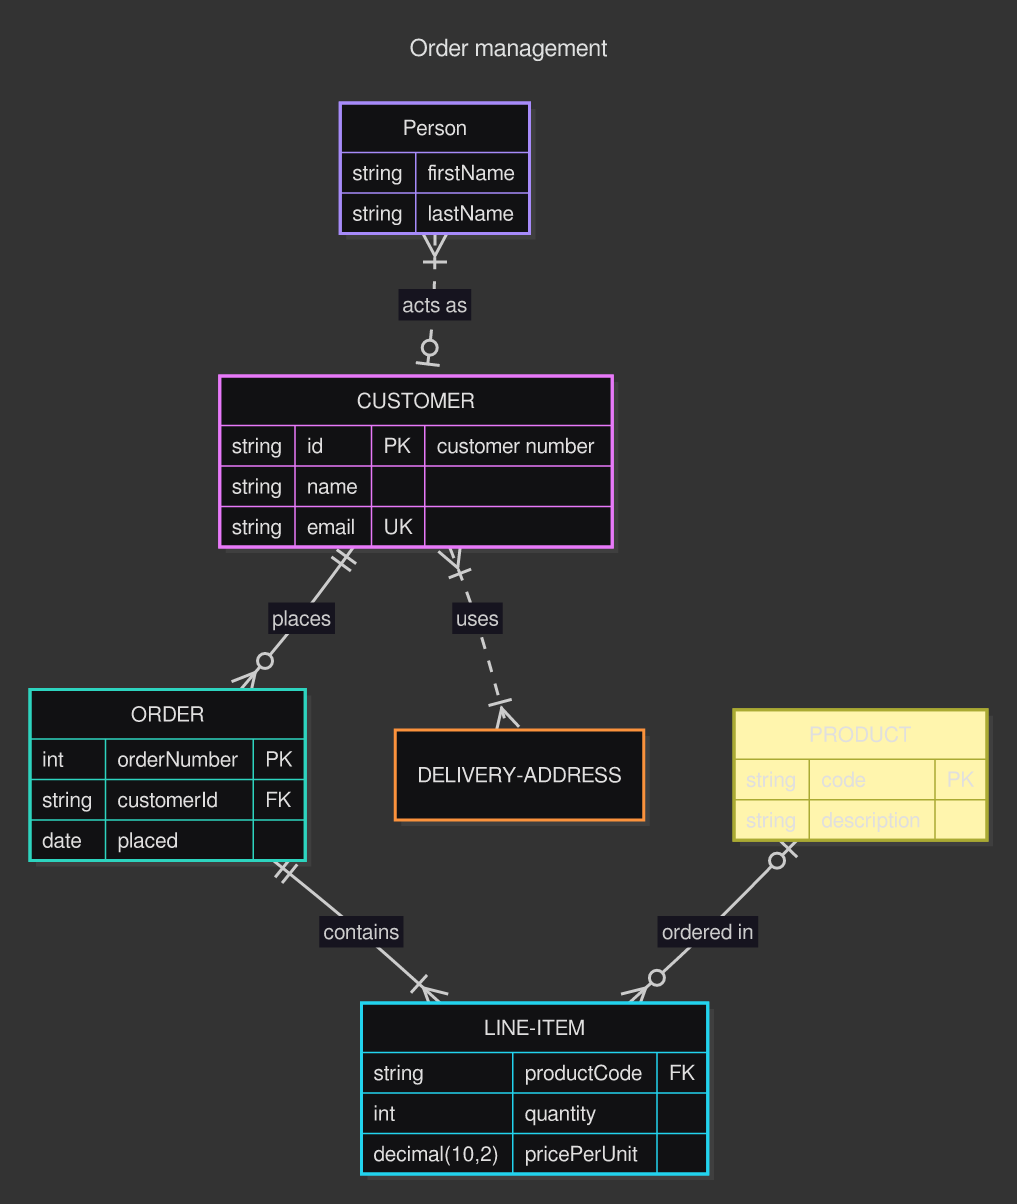
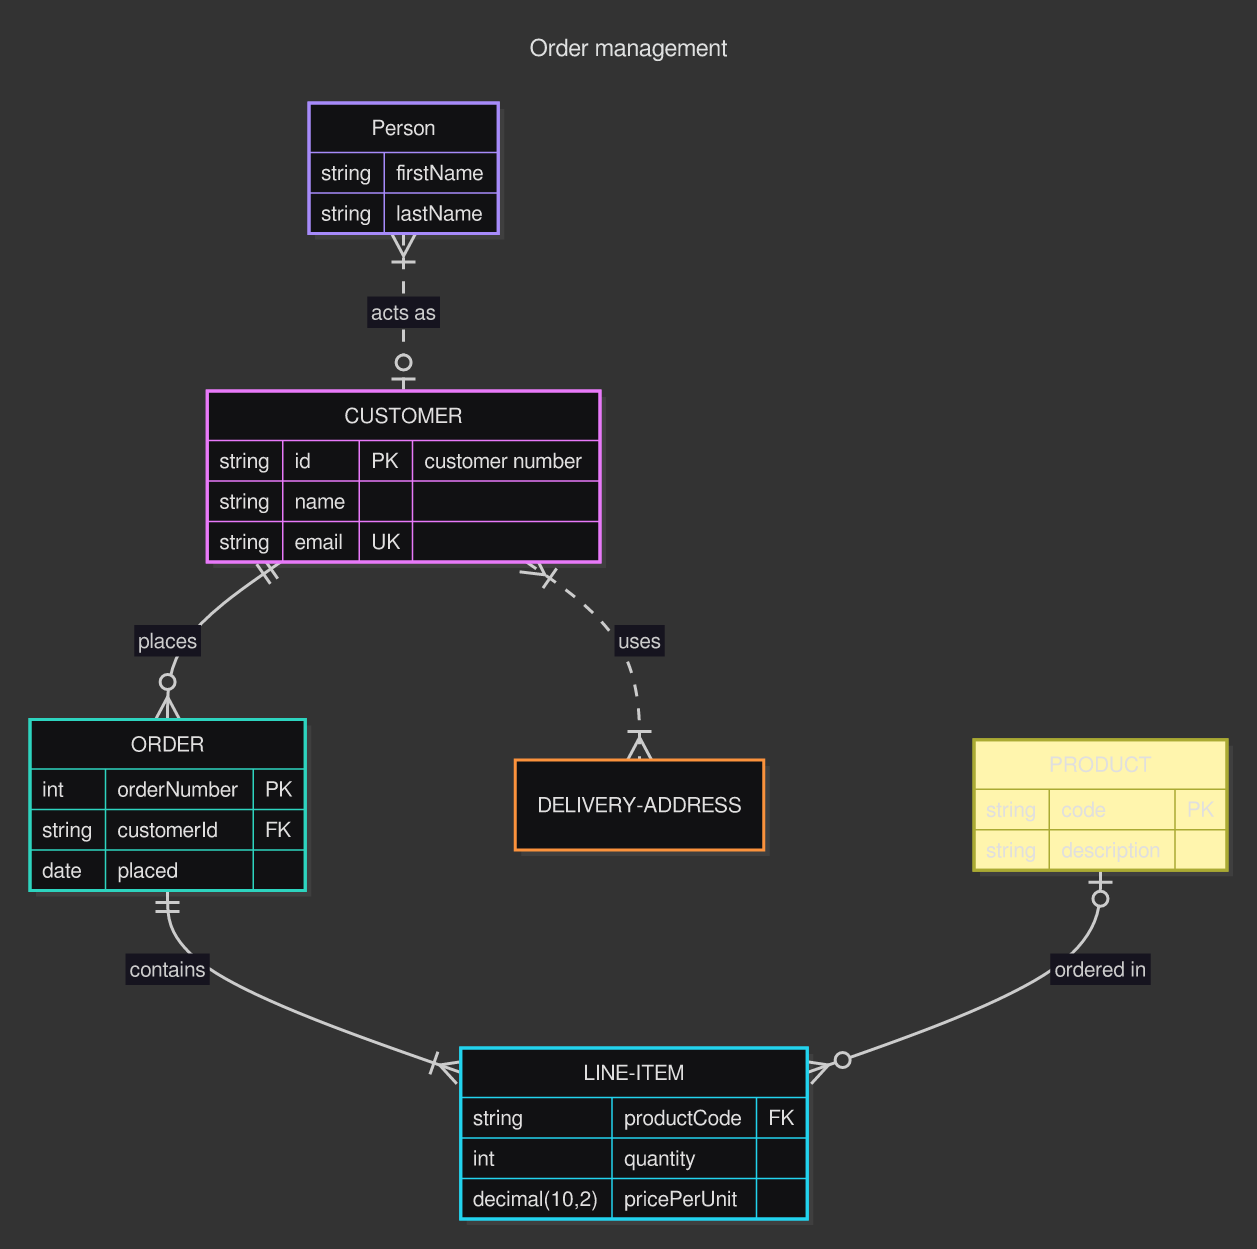
Regenerate gallery after merging themes and curved routing
Claude-Session: https://claude.ai/code/session_01YSBvDqvT7DHspcB7hQZR6n

diff --git a/docs/GALLERY.md b/docs/GALLERY.md
@@ -5,7 +5,7 @@ Regenerate with `cargo run --release --example gallery`.
 
 ## architecture
 
-Source: [`examples/diagrams/architecture.mmd`](../examples/diagrams/architecture.mmd) · rendered in 109.81µs
+Source: [`examples/diagrams/architecture.mmd`](../examples/diagrams/architecture.mmd) · rendered in 110.44µs
 
 <details><summary>source</summary>
 
@@ -42,7 +42,7 @@ architecture-beta
 
 ## block
 
-Source: [`examples/diagrams/block.mmd`](../examples/diagrams/block.mmd) · rendered in 135.84µs
+Source: [`examples/diagrams/block.mmd`](../examples/diagrams/block.mmd) · rendered in 129.50µs
 
 <details><summary>source</summary>
 
@@ -77,7 +77,7 @@ block-beta
 
 ## c4-container
 
-Source: [`examples/diagrams/c4-container.mmd`](../examples/diagrams/c4-container.mmd) · rendered in 297.11µs
+Source: [`examples/diagrams/c4-container.mmd`](../examples/diagrams/c4-container.mmd) · rendered in 213.75µs
 
 <details><summary>source</summary>
 
@@ -122,7 +122,7 @@ C4Container
 
 ## c4
 
-Source: [`examples/diagrams/c4.mmd`](../examples/diagrams/c4.mmd) · rendered in 396.50µs
+Source: [`examples/diagrams/c4.mmd`](../examples/diagrams/c4.mmd) · rendered in 233.38µs
 
 <details><summary>source</summary>
 
@@ -177,7 +177,7 @@ C4Context
 
 ## class
 
-Source: [`examples/diagrams/class.mmd`](../examples/diagrams/class.mmd) · rendered in 135.53µs
+Source: [`examples/diagrams/class.mmd`](../examples/diagrams/class.mmd) · rendered in 132.23µs
 
 <details><summary>source</summary>
 
@@ -217,7 +217,7 @@ classDiagram
 
 ## er
 
-Source: [`examples/diagrams/er.mmd`](../examples/diagrams/er.mmd) · rendered in 214.45µs
+Source: [`examples/diagrams/er.mmd`](../examples/diagrams/er.mmd) · rendered in 142.56µs
 
 <details><summary>source</summary>
 
@@ -268,7 +268,7 @@ erDiagram
 
 ## flowchart
 
-Source: [`examples/diagrams/flowchart.mmd`](../examples/diagrams/flowchart.mmd) · rendered in 148.82µs
+Source: [`examples/diagrams/flowchart.mmd`](../examples/diagrams/flowchart.mmd) · rendered in 117.29µs
 
 <details><summary>source</summary>
 
@@ -296,7 +296,7 @@ flowchart TD
 
 ## gantt
 
-Source: [`examples/diagrams/gantt.mmd`](../examples/diagrams/gantt.mmd) · rendered in 471.87µs
+Source: [`examples/diagrams/gantt.mmd`](../examples/diagrams/gantt.mmd) · rendered in 465.64µs
 
 <details><summary>source</summary>
 
@@ -336,7 +336,7 @@ gantt
 
 ## gitgraph
 
-Source: [`examples/diagrams/gitgraph.mmd`](../examples/diagrams/gitgraph.mmd) · rendered in 76.77µs
+Source: [`examples/diagrams/gitgraph.mmd`](../examples/diagrams/gitgraph.mmd) · rendered in 68.86µs
 
 <details><summary>source</summary>
 
@@ -374,7 +374,7 @@ gitGraph
 
 ## info
 
-Source: [`examples/diagrams/info.mmd`](../examples/diagrams/info.mmd) · rendered in 18.74µs
+Source: [`examples/diagrams/info.mmd`](../examples/diagrams/info.mmd) · rendered in 15.48µs
 
 <details><summary>source</summary>
 
@@ -388,7 +388,7 @@ info showInfo
 
 ## journey
 
-Source: [`examples/diagrams/journey.mmd`](../examples/diagrams/journey.mmd) · rendered in 150.04µs
+Source: [`examples/diagrams/journey.mmd`](../examples/diagrams/journey.mmd) · rendered in 127.64µs
 
 <details><summary>source</summary>
 
@@ -413,7 +413,7 @@ journey
 
 ## kanban
 
-Source: [`examples/diagrams/kanban.mmd`](../examples/diagrams/kanban.mmd) · rendered in 106.56µs
+Source: [`examples/diagrams/kanban.mmd`](../examples/diagrams/kanban.mmd) · rendered in 91.17µs
 
 <details><summary>source</summary>
 
@@ -448,7 +448,7 @@ kanban
 
 ## mindmap
 
-Source: [`examples/diagrams/mindmap.mmd`](../examples/diagrams/mindmap.mmd) · rendered in 96.80µs
+Source: [`examples/diagrams/mindmap.mmd`](../examples/diagrams/mindmap.mmd) · rendered in 81.65µs
 
 <details><summary>source</summary>
 
@@ -485,7 +485,7 @@ mindmap
 
 ## packet
 
-Source: [`examples/diagrams/packet.mmd`](../examples/diagrams/packet.mmd) · rendered in 189.80µs
+Source: [`examples/diagrams/packet.mmd`](../examples/diagrams/packet.mmd) · rendered in 161.52µs
 
 <details><summary>source</summary>
 
@@ -519,7 +519,7 @@ packet-beta
 
 ## pie
 
-Source: [`examples/diagrams/pie.mmd`](../examples/diagrams/pie.mmd) · rendered in 37.70µs
+Source: [`examples/diagrams/pie.mmd`](../examples/diagrams/pie.mmd) · rendered in 31.33µs
 
 <details><summary>source</summary>
 
@@ -538,7 +538,7 @@ pie showData
 
 ## quadrant
 
-Source: [`examples/diagrams/quadrant.mmd`](../examples/diagrams/quadrant.mmd) · rendered in 53.29µs
+Source: [`examples/diagrams/quadrant.mmd`](../examples/diagrams/quadrant.mmd) · rendered in 45.78µs
 
 <details><summary>source</summary>
 
@@ -567,7 +567,7 @@ quadrantChart
 
 ## radar
 
-Source: [`examples/diagrams/radar.mmd`](../examples/diagrams/radar.mmd) · rendered in 89.78µs
+Source: [`examples/diagrams/radar.mmd`](../examples/diagrams/radar.mmd) · rendered in 70.95µs
 
 <details><summary>source</summary>
 
@@ -595,7 +595,7 @@ radar-beta
 
 ## requirement
 
-Source: [`examples/diagrams/requirement.mmd`](../examples/diagrams/requirement.mmd) · rendered in 175.36µs
+Source: [`examples/diagrams/requirement.mmd`](../examples/diagrams/requirement.mmd) · rendered in 163.56µs
 
 <details><summary>source</summary>
 
@@ -677,7 +677,7 @@ requirementDiagram
 
 ## sankey
 
-Source: [`examples/diagrams/sankey.mmd`](../examples/diagrams/sankey.mmd) · rendered in 310.07µs
+Source: [`examples/diagrams/sankey.mmd`](../examples/diagrams/sankey.mmd) · rendered in 269.91µs
 
 <details><summary>source</summary>
 
@@ -722,7 +722,7 @@ Electricity grid,"Heating and cooling, homes",42.0
 
 ## sequence
 
-Source: [`examples/diagrams/sequence.mmd`](../examples/diagrams/sequence.mmd) · rendered in 100.73µs
+Source: [`examples/diagrams/sequence.mmd`](../examples/diagrams/sequence.mmd) · rendered in 80.96µs
 
 <details><summary>source</summary>
 
@@ -757,7 +757,7 @@ sequenceDiagram
 
 ## state
 
-Source: [`examples/diagrams/state.mmd`](../examples/diagrams/state.mmd) · rendered in 170.13µs
+Source: [`examples/diagrams/state.mmd`](../examples/diagrams/state.mmd) · rendered in 165.45µs
 
 <details><summary>source</summary>
 
@@ -785,7 +785,7 @@ stateDiagram-v2
 
 ## subgraphs
 
-Source: [`examples/diagrams/subgraphs.mmd`](../examples/diagrams/subgraphs.mmd) · rendered in 204.73µs
+Source: [`examples/diagrams/subgraphs.mmd`](../examples/diagrams/subgraphs.mmd) · rendered in 219.22µs
 
 <details><summary>source</summary>
 
@@ -816,7 +816,7 @@ flowchart LR
 
 ## timeline
 
-Source: [`examples/diagrams/timeline.mmd`](../examples/diagrams/timeline.mmd) · rendered in 177.55µs
+Source: [`examples/diagrams/timeline.mmd`](../examples/diagrams/timeline.mmd) · rendered in 147.02µs
 
 <details><summary>source</summary>
 
@@ -841,7 +841,7 @@ timeline
 
 ## treemap
 
-Source: [`examples/diagrams/treemap.mmd`](../examples/diagrams/treemap.mmd) · rendered in 106.26µs
+Source: [`examples/diagrams/treemap.mmd`](../examples/diagrams/treemap.mmd) · rendered in 77.60µs
 
 <details><summary>source</summary>
 
@@ -878,7 +878,7 @@ classDef highlight fill:#ffd166,stroke:#c77d00,color:#000
 
 ## xychart
 
-Source: [`examples/diagrams/xychart.mmd`](../examples/diagrams/xychart.mmd) · rendered in 99.72µs
+Source: [`examples/diagrams/xychart.mmd`](../examples/diagrams/xychart.mmd) · rendered in 92.44µs
 
 <details><summary>source</summary>
 
@@ -898,7 +898,7 @@ xychart-beta
 
 ## zenuml
 
-Source: [`examples/diagrams/zenuml.mmd`](../examples/diagrams/zenuml.mmd) · rendered in 121.24µs
+Source: [`examples/diagrams/zenuml.mmd`](../examples/diagrams/zenuml.mmd) · rendered in 121.41µs
 
 <details><summary>source</summary>
 
